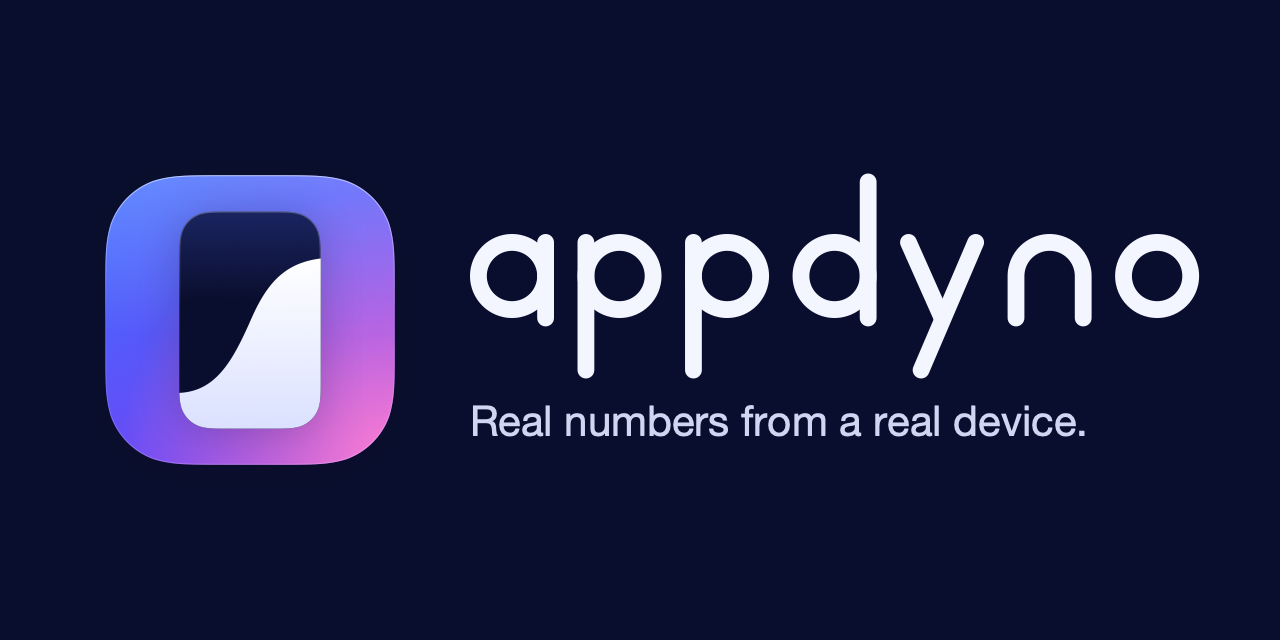
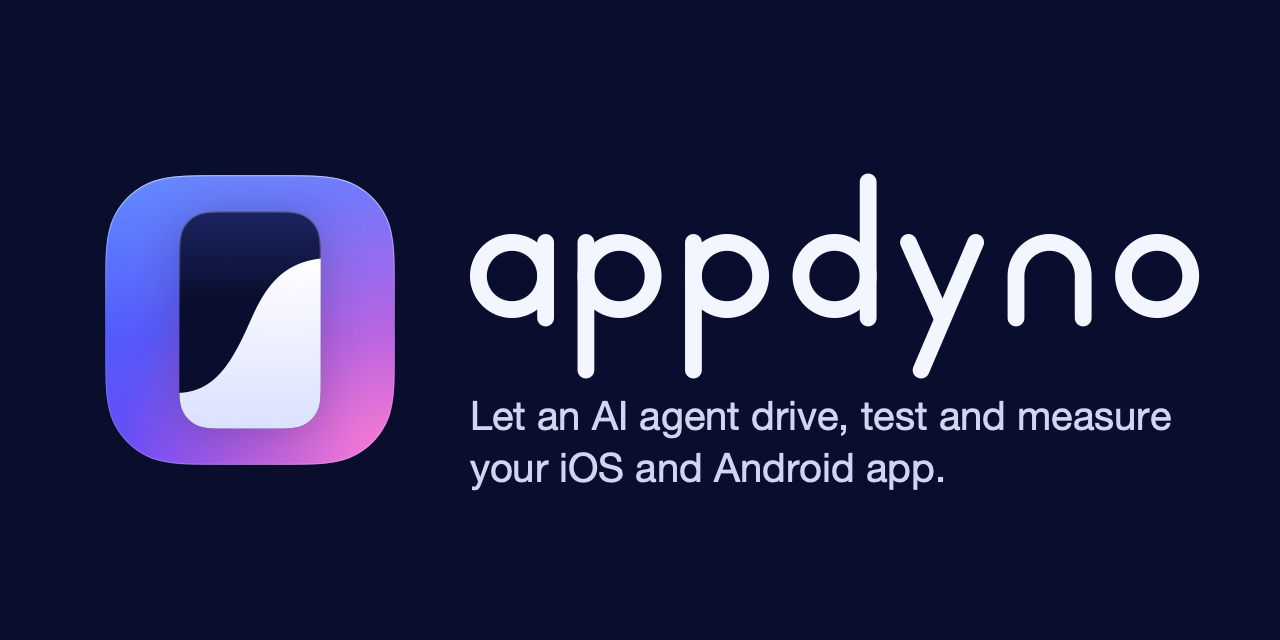
docs(images): the social card says what the README says first, an AI agent driving, testing and measuring an iOS or Android app

Changed region(s): [[0.3438, 0.625, 0.9375, 0.7812]]

diff --git a/CHANGELOG.tr.md b/CHANGELOG.tr.md
@@ -4,6 +4,7 @@
 
 ## Yayımlanmamış
 
+- Deponun paylaşım kartı, yalnızca "Real numbers from a real device." demek yerine README'nin satırını taşır: bir yapay zekâ ajanının bir iOS ya da Android uygulamasını yönettiği, test ettiği ve ölçtüğü.
 - Yeni bir issue bir hata bildirimi ya da bir özellik isteğidir; bir güvenlik bildirimi özel bildirime gider ve boş issue açılmaz. Hata bildirimi cihazın modelini ve işletim sistemini, başarısız çağrıyı da yanıtıyla ister ve bildirimin İngilizce ya da Türkçe olabileceğini söyler. THIRD_PARTY_NOTICES Mac uygulamasının taşıdığı Node.js'i adlandırır; MCP registry'sindeki kayıt da appdyno'nun bir Mac'ten çalıştığını söyler.
 - npm'in gösterdiği README resimlerine ve sayfalarına `main` yerine sürümün kendi etiketinden bağlanır: bir sürümün sayfası o sürümün resimlerini ve belgelerini korur; bir rozetin bağlantısı da tam adres olur.
 - Diyagramlar temiz okunur: araç çağrısının yaşam çizgileri kestikleri sözcüklerden önce durur ve okları sürücüden ve sunucudan geçer, cihaz tablosunun notları ne demek istediklerini söyler, paket haritası native koda giden okun ne olduğunu söyler, pencerenin alt yazıları da kutularının içinde kalır. Mimari sayfası `simsettle.ts`'in yolunu verir ve `--put-back-after`'ın elle yazılacak bir seçenek olmadığını söyler.

diff --git a/CHANGELOG.md b/CHANGELOG.md
@@ -4,6 +4,7 @@
 
 ## Unreleased
 
+- The repository's social card carries the README's line, that an AI agent drives, tests and measures an iOS or Android app, where it said only "Real numbers from a real device."
 - A new issue is a bug report or a feature request, and a security report goes to private reporting, with no blank issue; the bug report asks for the device's model and OS and for the failing call with its answer, and says a report may be in English or Turkish. THIRD_PARTY_NOTICES names the Node.js the Mac app carries, and the MCP registry's entry says appdyno runs from a Mac.
 - The README npm shows links its pictures and pages at the release's own tag, where it linked `main`: a version's page keeps that version's pictures and docs, and a badge's link is made whole too.
 - The diagrams read clean: the tool call's lifelines stop short of the words they crossed and its arrows pass through the driver and the server, the devices table's notes say what they mean, the map of packages says what an arrow into native code is, and the window's captions sit inside their boxes. The architecture page gives `simsettle.ts` its path and says that `--put-back-after` is not a flag to type.
